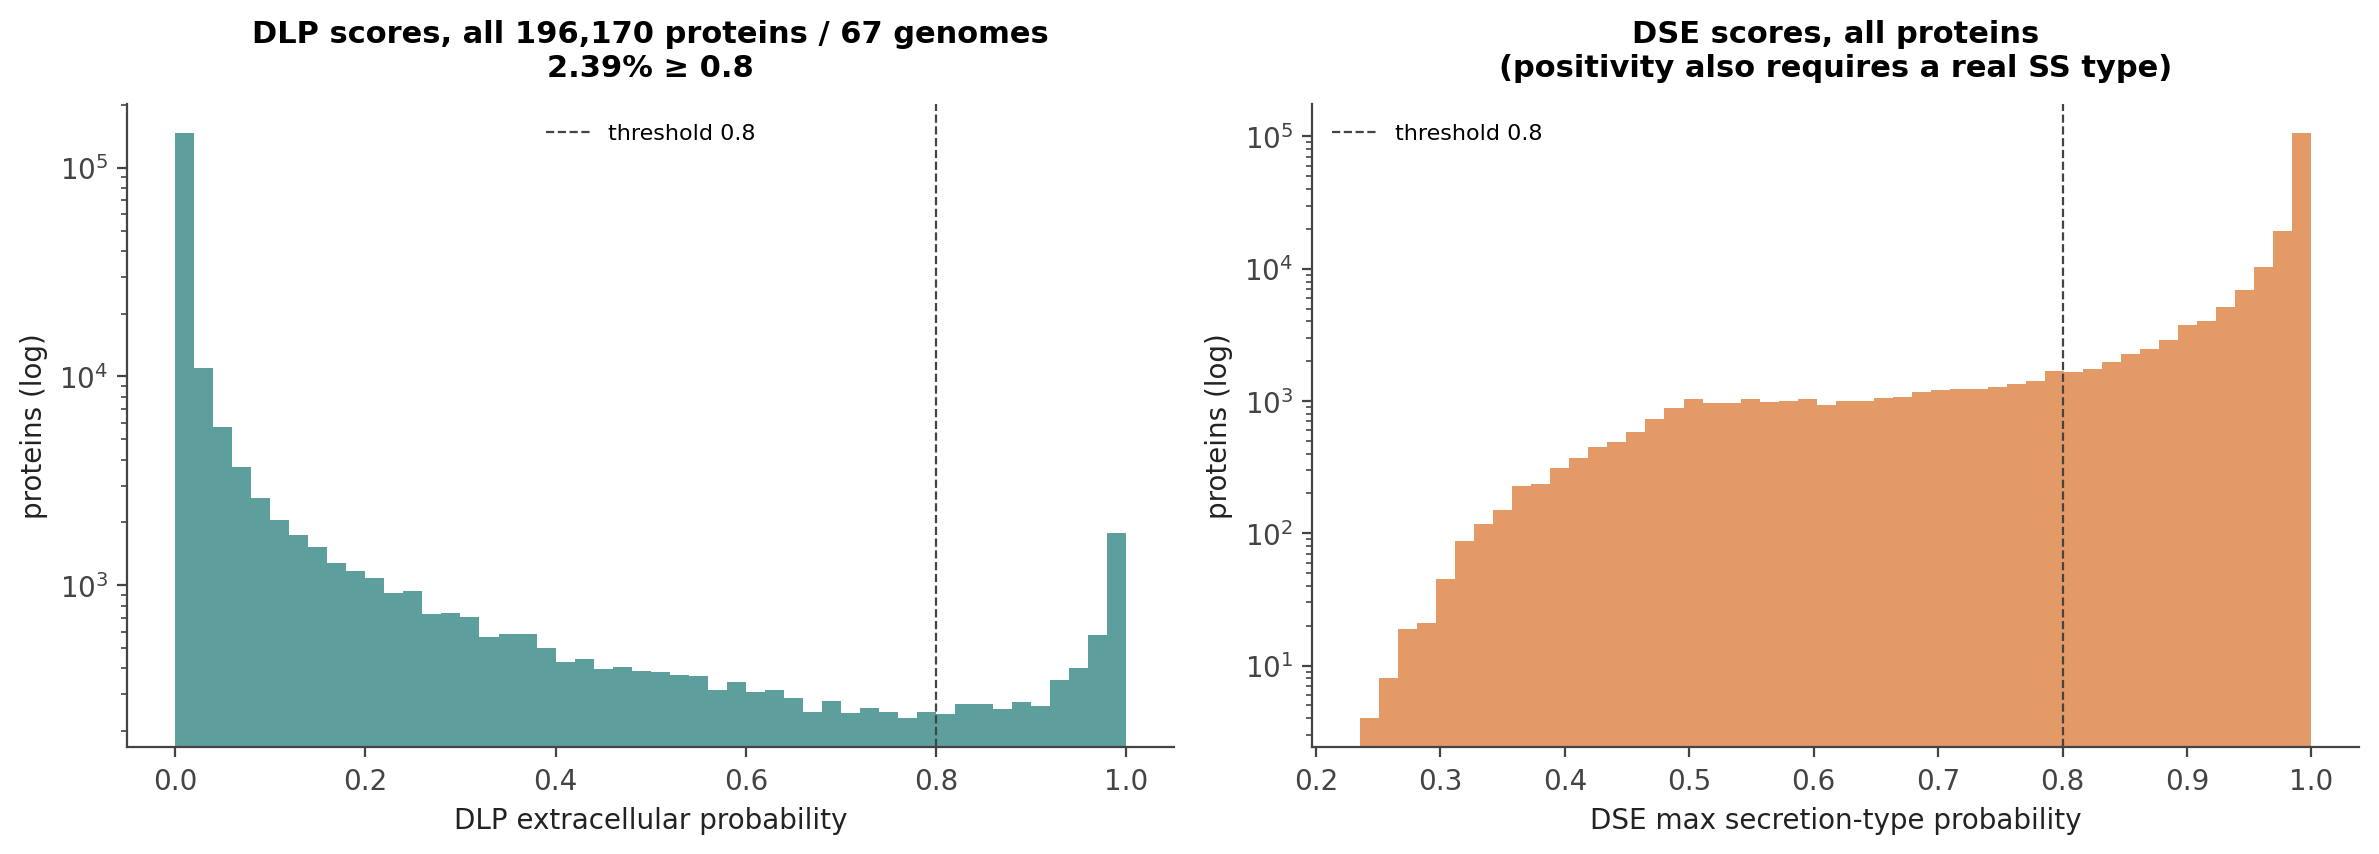
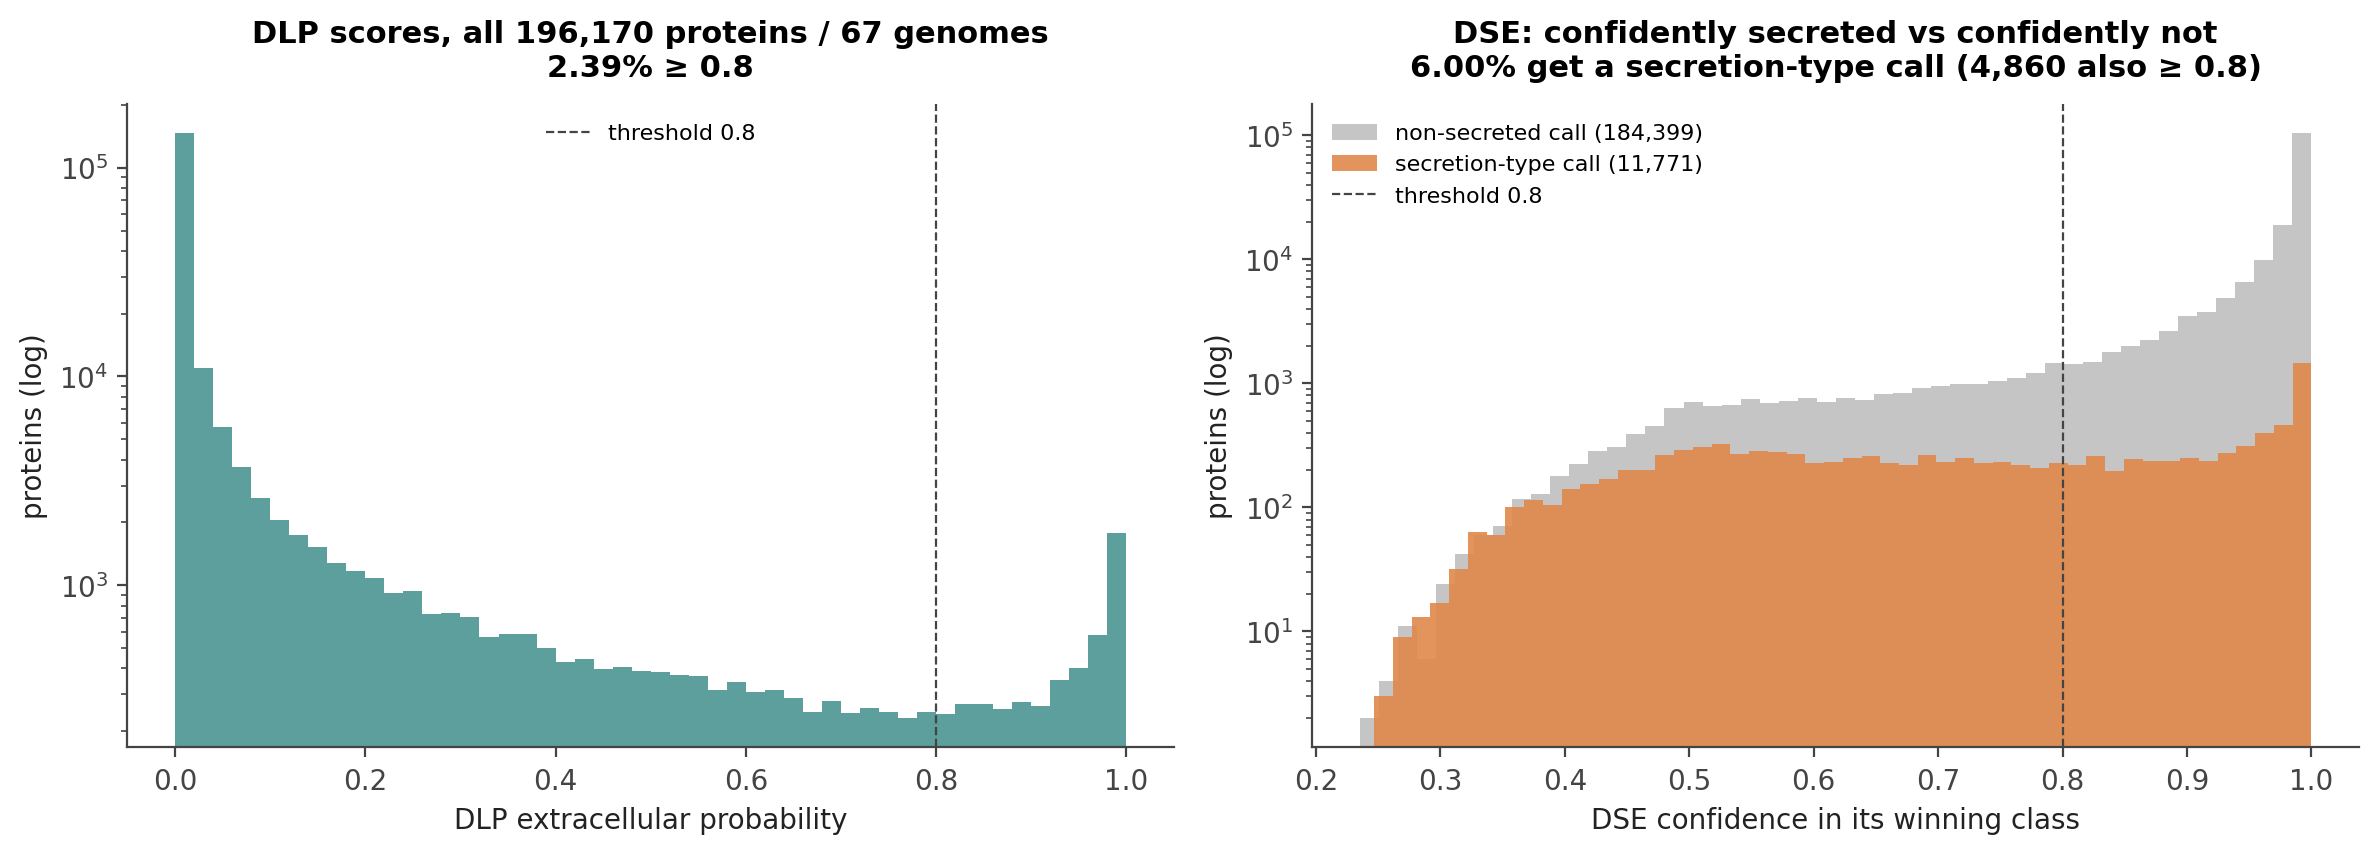
fleet stats: clearer DSE panel + circular-permutation validation of the enrichment test
01: DSE score panel split by winning class (secretion-type vs non-secreted) so the near-1.0 pile reads correctly. 02: per-system circular-permutation null vs the binomial; permutation confirms 11/87 binomial-significant systems (the strongest), n=1000 binomial recovers 100% of permutation-significant. Binomial is more liberal because it assumes independence while secreted genes cluster.

diff --git a/validation_sweeps/benchmark/analysis/fleet_67/02_permutation_validation.py b/validation_sweeps/benchmark/analysis/fleet_67/02_permutation_validation.py
@@ -1,0 +1,239 @@
+#!/usr/bin/env python3
+"""Validate the binomial enrichment test against a circular-permutation null.
+
+The production test is a one-sided binomial: it assumes each neighborhood
+protein is independently secreted at the genome background rate. But secreted
+genes cluster (operons, islands), so independence can inflate significance.
+A circular-permutation null preserves that clustering: for a system whose
+neighborhood holds k secreted proteins out of M, slide an M-gene window around
+the genome's (circular) gene order and count secreted at every offset — the
+observed k's rank in that distribution is a spatially-honest p-value.
+
+This computes, per system (DLP and DSE), the permutation p-value and a binomial
+p-value with an n=1000 *sampled* background (the user-facing default), BH-corrects
+within genome (matching production), and compares against the binomial-with-exact
+background calls the fleet actually made. Answers: does the binomial agree with
+an assumption-light spatial test, and does n=1000 catch what permutation catches?
+
+    .venv/bin/python 02_permutation_validation.py
+
+Approximations (noted): the neighborhood is treated as one contiguous M-window
+(true for contiguous systems); the sliding window spans all proteins incl. SS
+components (the real neighborhood excludes them, but components are rarely
+secreted); multi-contig genomes are ordered contig-then-position and wrapped.
+"""
+
+from __future__ import annotations
+
+import csv
+import os
+import random
+import re
+from collections import defaultdict
+
+import matplotlib
+
+matplotlib.use("Agg")
+import matplotlib.pyplot as plt
+import numpy as np
+
+from ssign_app.scripts.enrichment_testing import (
+    bh_fdr,
+    binom_pvalue,
+    is_dlp_positive,
+    is_dse_positive,
+)
+
+FLEET = "/tmp/ssign_fleet_67"
+HERE = os.path.dirname(os.path.abspath(__file__))
+FIGS = os.path.join(HERE, "figures")
+CONF = 0.8
+SEED = 42
+ALPHA = 0.05
+
+THEME = {"both": "#3F8E8C", "binom_only": "#C44E52", "perm_only": "#7A5C9E", "neither": "#C9C9C9", "ref": "#444444"}
+plt.rcParams.update(
+    {
+        "figure.dpi": 110,
+        "savefig.dpi": 200,
+        "savefig.bbox": "tight",
+        "font.size": 10,
+        "axes.titlesize": 11,
+        "axes.titleweight": "bold",
+        "axes.titlepad": 10,
+        "axes.spines.top": False,
+        "axes.spines.right": False,
+        "axes.edgecolor": "#444444",
+        "xtick.color": "#444444",
+        "ytick.color": "#444444",
+    }
+)
+
+
+def ordered_secreted_vectors(genome: str):
+    """(dlp_vec, dse_vec) of secreted-positivity bools in circular gene order."""
+    raw = os.path.join(FLEET, genome, "results", f"{genome}_results_raw.csv")
+    recs = []
+    with open(raw) as fh:
+        for row in csv.DictReader(fh):
+            try:
+                start = int(float(row.get("start") or 0))
+            except ValueError:
+                start = 0
+            recs.append((row.get("contig", ""), start, is_dlp_positive(row, CONF), is_dse_positive(row, CONF)))
+    recs.sort(key=lambda r: (r[0], r[1]))
+    dlp = np.array([r[2] for r in recs], dtype=int)
+    dse = np.array([r[3] for r in recs], dtype=int)
+    return dlp, dse
+
+
+def perm_pvalue(vec: np.ndarray, M: int, k: int) -> float:
+    """P(secreted-count in a random circular M-window >= k), +1 smoothed."""
+    n = len(vec)
+    if M <= 0 or M >= n or k <= 0:
+        return 1.0
+    vv = np.concatenate([vec, vec[:M]])
+    cs = np.concatenate([[0], np.cumsum(vv)])
+    counts = cs[M : M + n] - cs[:n]  # n circular windows of size M
+    return float((np.sum(counts >= k) + 1) / (n + 1))
+
+
+def parse_systems(genome: str):
+    """System rows from the genome summary: (ss_type, tool, M, k, significant_binom_exact)."""
+    summ = os.path.join(FLEET, genome, "results", f"{genome}_summary.txt")
+    out = []
+    if not os.path.exists(summ):
+        return out
+    with open(summ) as fh:
+        for line in fh:
+            if not re.match(r"\s*" + re.escape(genome) + r"\s+system\s", line):
+                continue
+            p = line.split()
+            try:
+                out.append(
+                    {"ss_type": p[3], "tool": p[4], "M": int(p[5]), "k": int(p[6]), "sig_binom_exact": p[11] == "True"}
+                )
+            except (ValueError, IndexError):
+                continue
+    return out
+
+
+def main():
+    os.makedirs(FIGS, exist_ok=True)
+    rng = random.Random(SEED)
+    rows = []
+    for g in sorted(os.listdir(FLEET)):
+        systems = parse_systems(g)
+        if not systems:
+            continue
+        dlp, dse = ordered_secreted_vectors(g)
+        vecs = {"DLP": dlp, "DSE": dse}
+        grows = []
+        for s in systems:
+            vec = vecs.get(s["tool"])
+            if vec is None or len(vec) == 0:
+                continue
+            n = len(vec)
+            p_perm = perm_pvalue(vec, s["M"], s["k"])
+            # binomial with an n=1000 sampled background (default users get this)
+            n_draw = min(1000, n)
+            p_bg = vec[rng.sample(range(n), n_draw)].mean()
+            p_n1000 = binom_pvalue(s["k"], s["M"], float(p_bg))
+            grows.append({**s, "genome": g, "pvalue": p_perm, "p_n1000": p_n1000})
+        # BH within genome (matches production), separately for each p source
+        bh_fdr(grows, pvalue_key="pvalue", q_key="q_perm", sig_key="sig_perm")
+        bh_fdr(grows, pvalue_key="p_n1000", q_key="q_n1000", sig_key="sig_n1000")
+        rows.extend(grows)
+
+    # --- agreement summary ---
+    def counts(key_a, key_b):
+        c = defaultdict(int)
+        for r in rows:
+            c[(r[key_a], r[key_b])] += 1
+        return c
+
+    n = len(rows)
+    perm_sig = sum(r["sig_perm"] for r in rows)
+    bex_sig = sum(r["sig_binom_exact"] for r in rows)
+    bn1000_sig = sum(r["sig_n1000"] for r in rows)
+    print(f"{n} per-system tests (DLP+DSE) across {len({r['genome'] for r in rows})} genomes\n")
+    print(f"significant: permutation {perm_sig}  |  binomial-exact {bex_sig}  |  binomial-n1000 {bn1000_sig}\n")
+
+    for ref, lab in (("sig_perm", "permutation"), ("sig_binom_exact", "binomial-exact")):
+        c = counts("sig_n1000", ref)
+        both = c[(True, True)]
+        only_ref = c[(False, True)]
+        only_n1000 = c[(True, False)]
+        recall = both / (both + only_ref) if (both + only_ref) else float("nan")
+        print(
+            f"binomial-n1000 vs {lab}: both {both}, {lab}-only {only_ref}, n1000-only {only_n1000} "
+            f"-> n1000 recovers {recall:.0%} of {lab}-significant systems"
+        )
+    # permutation vs binomial-exact: does the spatial null confirm the production calls?
+    c = counts("sig_perm", "sig_binom_exact")
+    print(
+        f"\npermutation vs binomial-exact: both {c[(True, True)]}, binom-only {c[(False, True)]}, "
+        f"perm-only {c[(True, False)]}, neither {c[(False, False)]}"
+    )
+    print(
+        f"  -> of {bex_sig} production-significant systems, permutation confirms "
+        f"{c[(True, True)]} ({c[(True, True)] / bex_sig:.0%})"
+    )
+
+    make_figure(rows)
+    print("\nFigure: 05_permutation_vs_binomial.png")
+
+
+def make_figure(rows):
+    fig, (a1, a2) = plt.subplots(1, 2, figsize=(13, 5.2))
+
+    # left: perm p vs binomial-n1000 p, colored by agreement
+    def cat(r):
+        if r["sig_perm"] and r["sig_n1000"]:
+            return "both"
+        if r["sig_n1000"]:
+            return "binom_only"
+        if r["sig_perm"]:
+            return "perm_only"
+        return "neither"
+
+    for c in ("neither", "both", "binom_only", "perm_only"):
+        pts = [r for r in rows if cat(r) == c]
+        if not pts:
+            continue
+        a1.scatter(
+            [max(r["p_n1000"], 1e-6) for r in pts],
+            [max(r["pvalue"], 1e-6) for r in pts],
+            s=18,
+            color=THEME[c],
+            alpha=0.7,
+            label=f"{c.replace('_', '-')} ({len(pts)})",
+        )
+    a1.plot([1e-6, 1], [1e-6, 1], ls=":", color=THEME["ref"], lw=0.8)
+    a1.axhline(ALPHA, ls="--", color=THEME["ref"], lw=0.6)
+    a1.axvline(ALPHA, ls="--", color=THEME["ref"], lw=0.6)
+    a1.set_xscale("log")
+    a1.set_yscale("log")
+    a1.set_xlabel("binomial (n=1000) p-value")
+    a1.set_ylabel("circular-permutation p-value")
+    a1.set_title("Per-system: binomial vs spatial-permutation p-value")
+    a1.legend(frameon=False, fontsize=8, loc="lower right")
+
+    # right: significant-call counts per method
+    perm = sum(r["sig_perm"] for r in rows)
+    bex = sum(r["sig_binom_exact"] for r in rows)
+    bn = sum(r["sig_n1000"] for r in rows)
+    labels = ["permutation\n(spatial null)", "binomial\nexact bg", "binomial\nn=1000 bg"]
+    vals = [perm, bex, bn]
+    a2.bar(labels, vals, color=["#7A5C9E", "#3F8E8C", "#4C72B0"])
+    for i, v in enumerate(vals):
+        a2.text(i, v, str(v), ha="center", va="bottom", weight="bold")
+    a2.set_ylabel("significant systems (q < 0.05)")
+    a2.set_title("Significant systems by test method")
+    fig.tight_layout()
+    fig.savefig(os.path.join(FIGS, "05_permutation_vs_binomial.png"))
+    plt.close(fig)
+
+
+if __name__ == "__main__":
+    main()

diff --git a/validation_sweeps/benchmark/analysis/fleet_67/01_fleet_stats.py b/validation_sweeps/benchmark/analysis/fleet_67/01_fleet_stats.py
@@ -28,7 +28,11 @@ matplotlib.use("Agg")
 import matplotlib.pyplot as plt
 import numpy as np
 
-from ssign_app.scripts.enrichment_testing import is_dlp_positive, is_dse_positive
+from ssign_app.scripts.enrichment_testing import (  # noqa: F401
+    DSE_NEGATIVE,
+    is_dlp_positive,
+    is_dse_positive,
+)
 
 HERE = os.path.dirname(os.path.abspath(__file__))
 FLEET = "/tmp/ssign_fleet_67"
@@ -80,13 +84,15 @@ def load_genomes() -> list[dict]:
         raw = os.path.join(FLEET, g, "results", f"{g}_results_raw.csv")
         if not os.path.exists(raw):
             continue
-        dlp_probs, dse_probs, dlp_pos, dse_pos = [], [], [], []
+        dlp_probs, dse_probs, dlp_pos, dse_pos, dse_sec = [], [], [], [], []
         with open(raw) as fh:
             for row in csv.DictReader(fh):
                 dlp_probs.append(_f(row.get("dlp_extracellular_prob")))
                 dse_probs.append(_f(row.get("dse_max_prob")))
                 dlp_pos.append(is_dlp_positive(row, CONF))
                 dse_pos.append(is_dse_positive(row, CONF))
+                # winning DSE class is a real secretion type (not Non-secreted/T3SS), regardless of prob
+                dse_sec.append((row.get("dse_ss_type", "") or "").strip() not in DSE_NEGATIVE)
         if not dlp_pos:
             continue
         out.append(
@@ -97,6 +103,7 @@ def load_genomes() -> list[dict]:
                 "dse_probs": np.array(dse_probs),
                 "dlp_pos": np.array(dlp_pos, dtype=bool),
                 "dse_pos": np.array(dse_pos, dtype=bool),
+                "dse_sec": np.array(dse_sec, dtype=bool),
             }
         )
     return out
@@ -179,12 +186,22 @@ def fig_score_distributions(genomes, n_proteins):
     a1.set_ylabel("proteins (log)")
     a1.set_title(f"DLP scores, all {n_proteins:,} proteins / 67 genomes\n{(dlp >= CONF).mean():.2%} ≥ {CONF}")
     a1.legend(frameon=False, fontsize=8)
-    a2.hist(dse, bins=50, color=THEME["dse"], alpha=0.85)
+    # Split DSE by the winning class: a real secretion type vs "Non-secreted".
+    # Both can be high-confidence, so the raw max-prob alone looks like "most
+    # proteins secreted"; splitting shows the near-1.0 pile is confidently-NOT.
+    dse_sec_mask = np.concatenate([g["dse_sec"] for g in genomes])
+    n_sec = int(dse_sec_mask.sum())
+    a2.hist(
+        dse[~dse_sec_mask], bins=50, color="#BFBFBF", alpha=0.9, label=f"non-secreted call ({(~dse_sec_mask).sum():,})"
+    )
+    a2.hist(dse[dse_sec_mask], bins=50, color=THEME["dse"], alpha=0.9, label=f"secretion-type call ({n_sec:,})")
     a2.axvline(CONF, ls="--", color=THEME["ref"], lw=0.8, label=f"threshold {CONF}")
     a2.set_yscale("log")
-    a2.set_xlabel("DSE max secretion-type probability")
+    a2.set_xlabel("DSE confidence in its winning class")
     a2.set_ylabel("proteins (log)")
-    a2.set_title("DSE scores, all proteins\n(positivity also requires a real SS type)")
+    a2.set_title(
+        f"DSE: confidently secreted vs confidently not\n{n_sec / len(dse):.2%} get a secretion-type call ({(dse_sec_mask & (dse >= CONF)).sum():,} also ≥ {CONF})"
+    )
     a2.legend(frameon=False, fontsize=8)
     fig.tight_layout()
     fig.savefig(os.path.join(FIGS, "01_score_distributions.png"))